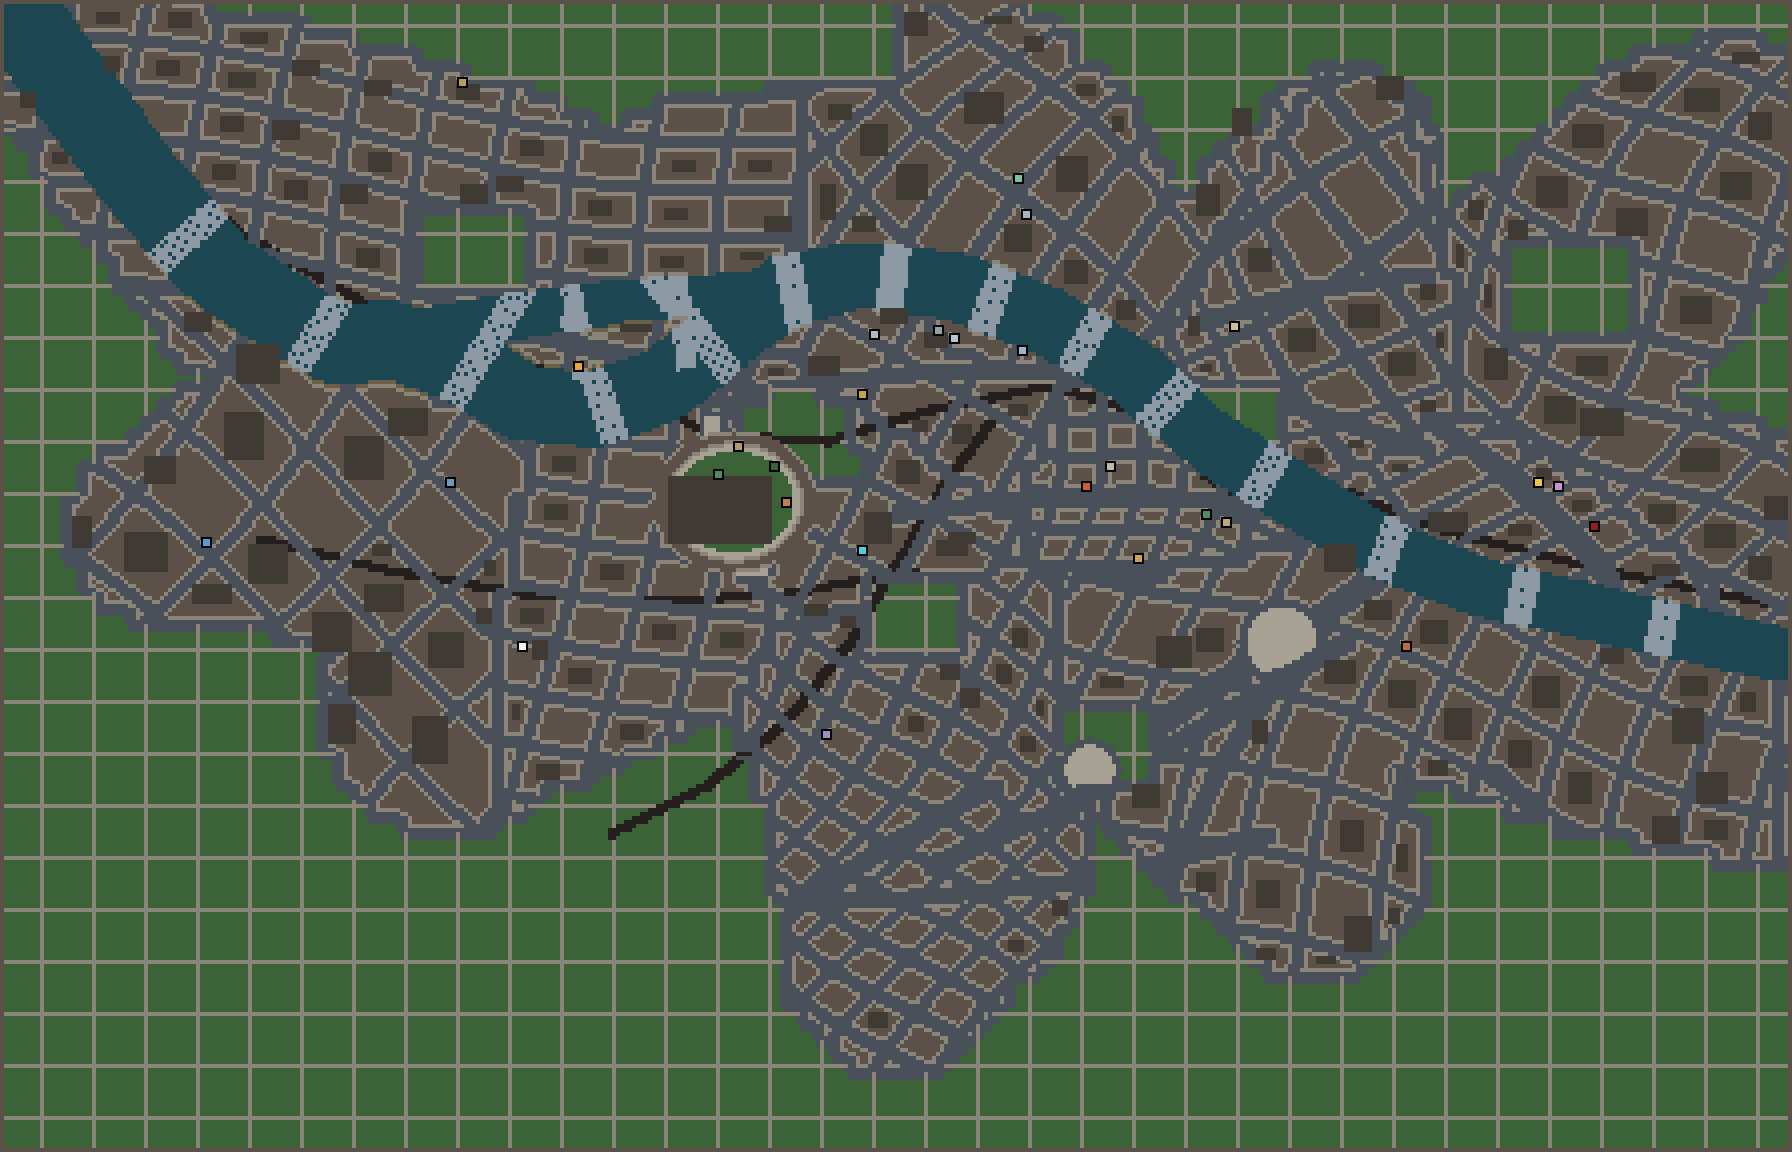
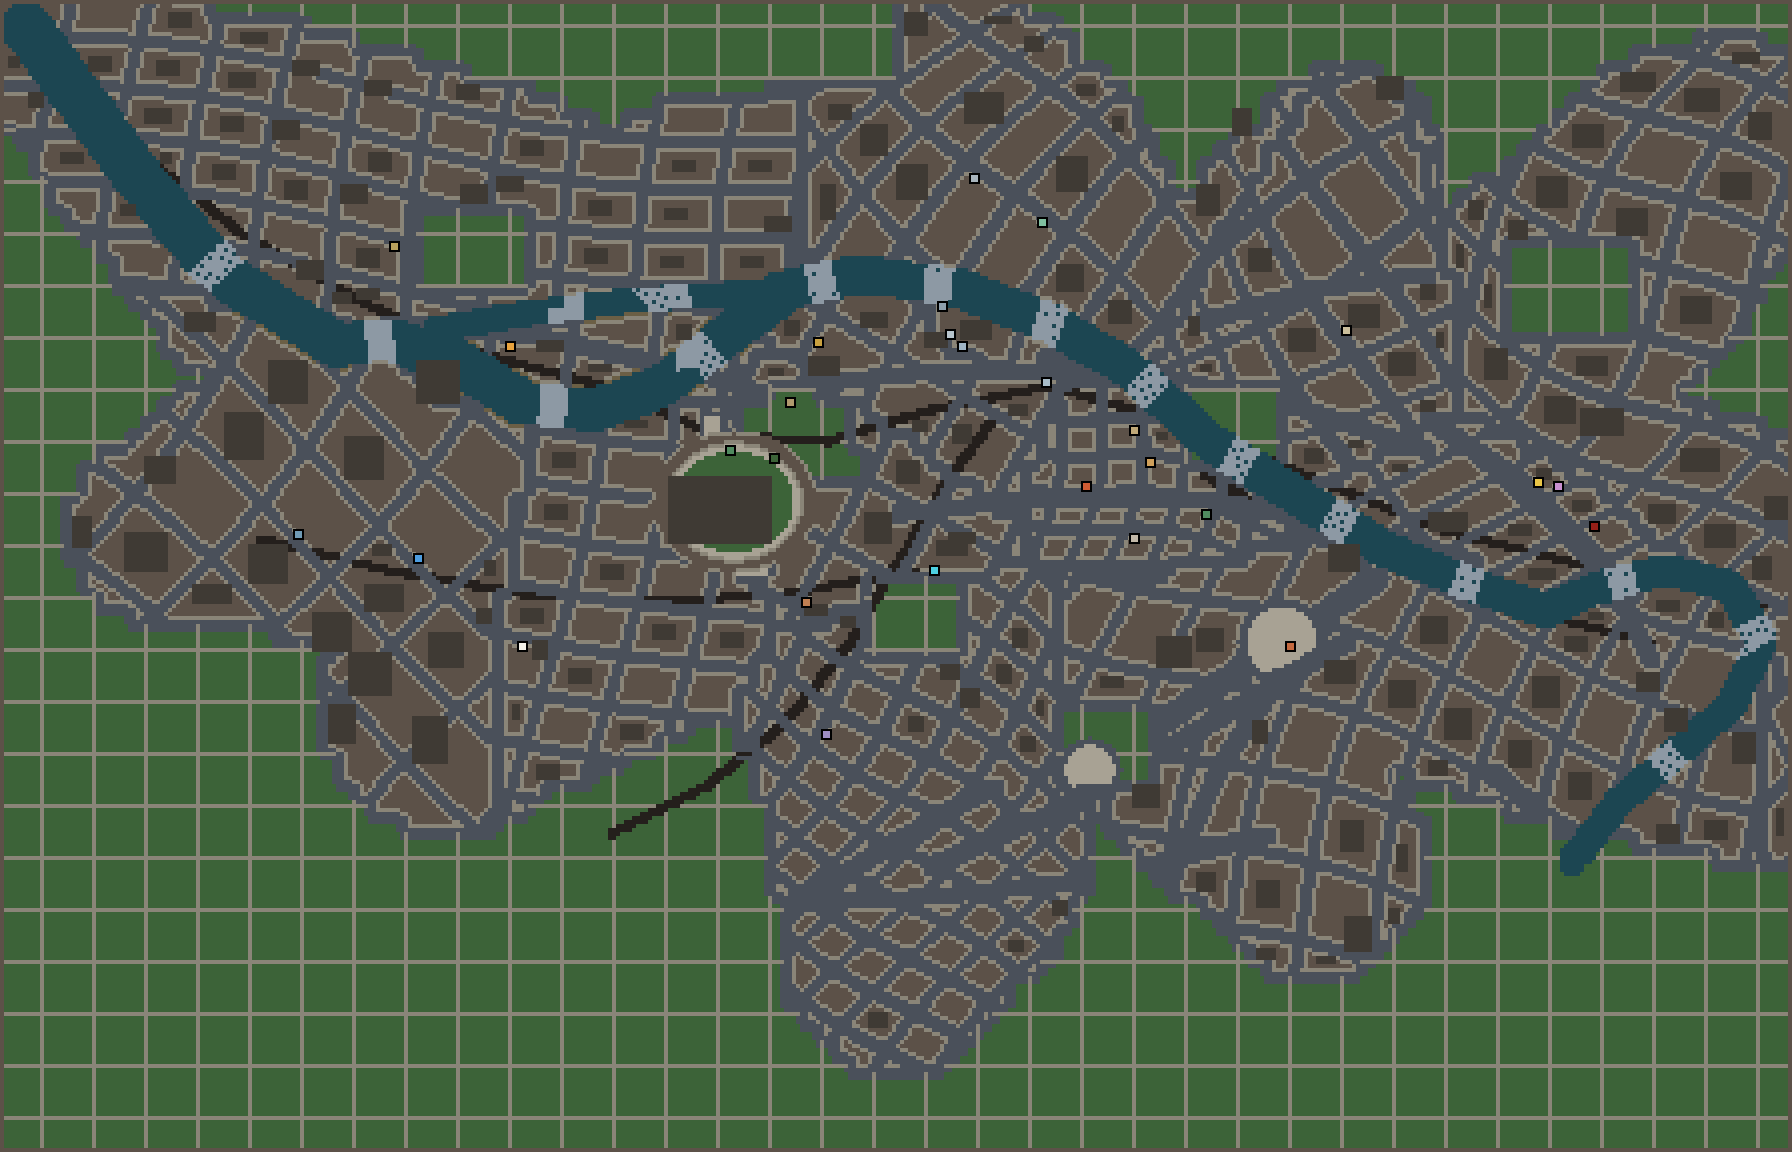
fix(bilbo-city): la ría era una autopista de agua
Con el mapa de juego que mandó el usuario al lado se ve de golpe: la ría
medía 21 casillas de ancho en la salida — un 5 % del mapa — y leía como un
brazo de mar, no como la ría de Bilbao. Baja a 7-12, y el Canal de Deusto a
6-7.

Y le faltaba el meandro del este: el Nervión rodea Bolueta y Etxebarri antes
de entrar en Bilbao, y ese lazo es de lo más reconocible del plano.

Verificado: 28/28 sitios en su barrio, red viaria al 97,5 %, conducción
recuperada a 11,5 casillas de mediana, batería entera en verde y C# sin
avisos.

Claude-Session: https://claude.ai/code/session_01TRzVFH25BrVEwpaMSPAuky

Changed region(s): [[0.0, 0.0, 1.0, 0.75], [0.4062, 0.375, 0.4375, 0.4062]]

diff --git a/bilbo-city/referencia/bilbo-city.html b/bilbo-city/referencia/bilbo-city.html
@@ -725,24 +725,24 @@ const ATLAS=[
  'FFFFOOOOOOOOOOOOOOOOOOOOOOOOOOOOBBBBBBBBBBBBEEEEEIIIIIIIIIIIIIIICCCCCCCCCCCCCCCCCMMMMSSSSSSSSSSSSSSSSSSTTTTTTTTT',
  'FFFFOOOOOOOOOOOOOOOOOOOOOOOOOOOOBBBBBBBBBBBBBEEEIIIIIIIIIIIIIIIICCCCCCCCCCCCCCMMMMMMMMMSSSSSSSSSSSSSSSSSSTTTTTTT',
  'FFFFFOOOOOOOOOOOOOOOOOOOOOOOOOOOBBBBBBBBBBBBBBEEIIIIIIIIIIIIIIRRRCCCCCCCCMMMMMMMMMMMMMMMMMSSSSSSSSSSSSSSSSTTTTTT',
- 'FFFFFOOOOOOOOOOOOOOOOOOOOOOOOOOOBBBBBBBBBBBBBBBIIIIIIIPPPPPPRRRRRRCMMMMMMMMMMMMMMMMMMMMMMMMMSSSSSSSSSSSSSSSTTTTT',
- 'FFFFFFOOOOOOOOOOOOOOOOOOOOOOOOOBBBBBBBBBBBBBBBBBIIIIIIPPPPPPRRRRRRMMMMMMMMMMMMMMMMMMMMMMMMMMMMMMMSSSSSSSSSSTTTTT',
- 'FFFFFFFFOOOOOOOOOOOOOOOOOOOOOOOBBBBBBBBBBBBBBBBBIIIIRRPPPPPPRRRRRRMMMMMMMMMMMMMMMMMMMMMMMMMMMMMMMMMMMSSSSSSSTTTT',
- 'FFFFFFFFFFFFFFFFFOOOOOOOOOOOOOOBBBBBBBBBBBBBBBBBRRRRRRPPPPPPRRRRRRMMMMMMMMMMMMMMMMMMMMMMMMMMMMMMMMMMMMMMMMSSSTTT',
+ 'FFFFFOOOOOOOOOOOOOOOOOOOOOOOOOOOBBBBBBBBBBBBBBBIIIIIIIPPPPPPRRRRRRCMMMMMMMMMMMMMMMMMMMMMMMMMSSSSSSSSMMMMMMMMTTTT',
+ 'FFFFFFOOOOOOOOOOOOOOOOOOOOOOOOOBBBBBBBBBBBBBBBBBIIIIIIPPPPPPRRRRRRMMMMMMMMMMMMMMMMMMMMMMMMMMMMMSSSMMMMMMMMMMMTTT',
+ 'FFFFFFFFOOOOOOOOOOOOOOOOOOOOOOOBBBBBBBBBBBBBBBBBIIIIRRPPPPPPRRRRRRMMMMMMMMMMMMMMMMMMMMMMMMMMMMMMMMMMMMMMMMMMMTTT',
+ 'FFFFFFFFFFFFFFFFFOOOOOOOOOOOOOOBBBBBBBBBBBBBBBBBRRRRRRPPPPPPRRRRRRMMMMMMMMMMMMMMMMMMMMMMMMMMMMMMMMMMMMMMMMMMMMTT',
  'FFFFFFFFFFFFFFFFFFFFFOOOOOOOOOOBBBBBBBBBBBBBBBBBRRRRRRPPPPPPRRRRRRMMMMMMMMMMMMMMMMMMMMMMMMMMMMMMMMMMMMMMMMMMMMTT',
- 'FFFFFFFFFFFFFFFFFFFFOOOOOOOOOOOBBBBBBBBBBBBBBBBRRRRRRRRRRRRRRRRRRRMMMMMMMMMMMMMMMMMMMMMMMMMMMMMMMMMMMMMMMMMMMMMT',
- 'FFFFFFFFFFFFFFFFFFFFOOOOOOOOOOOBBBBBBBBBBBBBBBBRRRRRRRRRRRRRRRRRRRMMMMMMMMMMMMMMMMMMMMMMMMMMMMMMMMMMMMMMMMMMMMMT',
- 'FFFFFFFFFFFFFFFFFFFFOOOOOOOOOOOBBBBBBBBBBBBBBBRRRRRRRRRRRRRRRRRRRRRMMMMMMMMMMMMMMMMMMMMMMMMMMMMMMMMMMMMMMMMMMMMS',
- 'FFFFFFFFFFFFFFFFFFFFOOOOOOOOOOOBBBBBBBBBBBBBBBRRRRRRRRRRRRRRRRRRRRPPPPPPMMMMMMMMMMMMMMMMMMMMMMMMMMMMMMMMMMMMMMMS',
- 'FFFFFFFFFFFFFFFFFFFFOOOOOOOOOOOBBBBBBBBBBBBFFFRRRRRRRRRRRRRRRRRRRRPPPPPPMMMMMMMMMMMMMMMMMMMMMMMMMMMMMMMMMMMMMMMS',
- 'FFFFFFFFFFFFFFFFFFFFOOOOOOOOOOOBBBBBBBBBBFFFFFRRRRRRRRRRRRRRRRRRRRPPPPPPMMMMMMMMMMMMMMMMMMMMMMMMMMMMMMMMMMMMMMMS',
- 'FFFFFFFFFFFFFFFFFFFFFOOOOOOOOOOBBBBBBBBFFFFFFFFRRRRRRRRRRRRRRRRRRRPPPPPPMMMMMMMMMMMMMMMMMMMMMMMMMMMMMMMMMMMMMMMS',
- 'FFFFFFFFFFFFFFFFFFFFFOOOOOOOOOOBBBBBBFFFFFFFFFFRRRRRRRRRRRRRRRRRRRPPPPPPMMMMMMMMMMMMMMMFMMMMMMMMMMMMMMMMMMMMMMMS',
- 'FFFFFFFFFFFFFFFFFFFFFFOOOOOOOOOBBBFFFFFFFFFFFFFRRRRRRRRRRRRRRRRRRRRMMMMMMMMMMMMMMMMMMMMMFFFMMMMMMMMMMMMMMMMMMMMS',
- 'FFFFFFFFFFFFFFFFFFFFFFFOOOOOOOOBBFFFFFFFFFFFFFFFRRRRRRRRRRRRRRRRRRRRMMMMMMMMMMMMMMMMMMMMFFFFFFMMMMMMMMMMMMMMMMMS',
- 'FFFFFFFFFFFFFFFFFFFFFFFFFOOOOOOFFFFFFFFFFFFFFFFFRRRRRRRRRRRRRRRRRRRRFMMMMMMMMMMMMMMMMMMMMFFFFFFFFMMMMMMMMMMMMMMS',
- 'FFFFFFFFFFFFFFFFFFFFFFFFFFFFFFFFFFFFFFFFFFFFFFFFRRRRRRRRRRRRRRRRRRRRFFMMMMMMMMMMMMMMMMMMMFFFFFFFFFFFFFMMMMMMMMMS',
- 'FFFFFFFFFFFFFFFFFFFFFFFFFFFFFFFFFFFFFFFFFFFFFFFFRRRRRRRRRRRRRRRRRRRRFFFMMMMMMMMMMMMMMMMMMFFFFFFFFFFFFFFFFFFMMMMS',
+ 'FFFFFFFFFFFFFFFFFFFFOOOOOOOOOOOBBBBBBBBBBBBBBBBRRRRRRRRRRRRRRRRRRRMMMMMMMMMMMMMMMMMMMMMMMMMMMMMMMMMMMMMMMMMMMMST',
+ 'FFFFFFFFFFFFFFFFFFFFOOOOOOOOOOOBBBBBBBBBBBBBBBBRRRRRRRRRRRRRRRRRRRMMMMMMMMMMMMMMMMMMMMMMMMMMMMMMMMMMMMMMMMMMMMST',
+ 'FFFFFFFFFFFFFFFFFFFFOOOOOOOOOOOBBBBBBBBBBBBBBBRRRRRRRRRRRRRRRRRRRRRMMMMMMMMMMMMMMMMMMMMMMMMMMMMMMMMMMMMMMMMMMMSS',
+ 'FFFFFFFFFFFFFFFFFFFFOOOOOOOOOOOBBBBBBBBBBBBBBBRRRRRRRRRRRRRRRRRRRRPPPPPPMMMMMMMMMMMMMMMMMMMMMMMMMMMMMMMMMMMMMMSS',
+ 'FFFFFFFFFFFFFFFFFFFFOOOOOOOOOOOBBBBBBBBBBBBFFFRRRRRRRRRRRRRRRRRRRRPPPPPPMMMMMMMMMMMMMMMMMMMMMMMMMMMMMMMMMMMMMMSS',
+ 'FFFFFFFFFFFFFFFFFFFFOOOOOOOOOOOBBBBBBBBBBFFFFFRRRRRRRRRRRRRRRRRRRRPPPPPPMMMMMMMMMMMMMMMMMMMMMMMMMMMMMMMMMMMMMMSS',
+ 'FFFFFFFFFFFFFFFFFFFFFOOOOOOOOOOBBBBBBBBFFFFFFFFRRRRRRRRRRRRRRRRRRRPPPPPPMMMMMMMMMMMMMMMMMMMMMMMMMMMMMMMMMMMMMMSS',
+ 'FFFFFFFFFFFFFFFFFFFFFOOOOOOOOOOBBBBBBFFFFFFFFFFRRRRRRRRRRRRRRRRRRRPPPPPPMMMMMMMMMMMMMMMFMMMMMMMMMMMMMMMMMMMMMMSS',
+ 'FFFFFFFFFFFFFFFFFFFFFFOOOOOOOOOBBBFFFFFFFFFFFFFRRRRRRRRRRRRRRRRRRRRMMMMMMMMMMMMMMMMMMMMMFFFMMMMMMMMMMMMMMMMMMMSS',
+ 'FFFFFFFFFFFFFFFFFFFFFFFOOOOOOOOBBFFFFFFFFFFFFFFFRRRRRRRRRRRRRRRRRRRRMMMMMMMMMMMMMMMMMMMMFFFFFFMMMMMMMMMMMMMMMMSS',
+ 'FFFFFFFFFFFFFFFFFFFFFFFFFOOOOOOFFFFFFFFFFFFFFFFFRRRRRRRRRRRRRRRRRRRRFMMMMMMMMMMMMMMMMMMMMFFFFFFFFMMMMMMMMMMMMMSS',
+ 'FFFFFFFFFFFFFFFFFFFFFFFFFFFFFFFFFFFFFFFFFFFFFFFFRRRRRRRRRRRRRRRRRRRRFFMMMMMMMMMMMMMMMMMMMFFFFFFFFFFFFFMMMMMMMMSS',
+ 'FFFFFFFFFFFFFFFFFFFFFFFFFFFFFFFFFFFFFFFFFFFFFFFFRRRRRRRRRRRRRRRRRRRRFFFMMMMMMMMMMMMMMMMMMFFFFFFFFFFFFFFFFFFMMMSS',
  'FFFFFFFFFFFFFFFFFFFFFFFFFFFFFFFFFFFFFFFFFFFFFFFFRRRRRRRRRRRRRRRRRRRRFFFFMMMMMMMMMMMMMMMMMFFFFFFFFFFFFFFFFFFFFFFF',
  'FFFFFFFFFFFFFFFFFFFFFFFFFFFFFFFFFFFFFFFFFFFFFFFFRRRRRRRRRRRRRRRRRRRRFFFFFMMMMMMMMMMMMMMMMFFFFFFFFFFFFFFFFFFFFFFF',
  'FFFFFFFFFFFFFFFFFFFFFFFFFFFFFFFFFFFFFFFFFFFFFFFFFRRRRRRRRRRRRRRRRRRFFFFFFFFMMMMMMMMMMMMMMFFFFFFFFFFFFFFFFFFFFFFF',
@@ -809,7 +809,7 @@ function linea(pts,ancho,t,soloSi){
    redonda a propósito: con un vértice en punta el plano parecía una tienda de campaña,
    no un río. Los dos brazos son distintos porque en Bilbao tampoco son iguales — el
    Nervión baja recto y el tramo de salida se abre. */
-const RIA=[[445,163],[404,154],[369,146],[346,137],[326,125],[302,110],[282,92],[262,80],[238,71],[215,68],[196,72],[180,84],[165,96],[148,102],[130,100],[114,90],[96,84],[84,86],[55,68],[35,45],[17,21],[6,6]];
+const RIA=[[392,215],[404,200],[418,188],[432,176],[440,160],[432,146],[416,142],[400,146],[386,152],[369,146],[346,137],[326,125],[302,110],[282,92],[262,80],[238,71],[215,68],[196,72],[180,84],[165,96],[148,102],[130,100],[114,90],[96,84],[84,86],[55,68],[35,45],[17,21],[6,6]];
 /* Canal de Deusto: corre paralelo al tramo de salida, por dentro, y deja Zorrotzaurre
    convertida en isla. Arranca y muere en la ría, que es lo que la hace isla y no península. */
 const CANAL=[[196,72],[174,73],[152,75],[130,78],[108,82]];
@@ -923,8 +923,8 @@ function generarCiudad(){
    pon(ex+dx,ey+dy, e>.62?EDIF : e>.5?PLAZA : PARQUE);}
   rect(ex-10,ey-2,20,3,PLAZA);})();
  /* 6 · la ría y el canal */
- lineaRio(RIA,13,21,AGUA);
- lineaRio(CANAL,10,12,AGUA);
+ lineaRio(RIA,7,12,AGUA);
+ lineaRio(CANAL,6,7,AGUA);
  /* 7 · puentes donde tocan las grandes vías */
  [.06,.13,.2,.27,.33,.38,.43,.48,.53,.58,.64,.71,.79,.87].forEach(t=>{
   const p=puntoRuta(RIA,t), per=p.ang+Math.PI/2;

diff --git a/bilbo-city/unity/BilboCity/Assets/Scripts/Ciudad/Ciudad.cs b/bilbo-city/unity/BilboCity/Assets/Scripts/Ciudad/Ciudad.cs
@@ -65,24 +65,24 @@ public static class Ciudad {
         "FFFFOOOOOOOOOOOOOOOOOOOOOOOOOOOOBBBBBBBBBBBBEEEEEIIIIIIIIIIIIIIICCCCCCCCCCCCCCCCCMMMMSSSSSSSSSSSSSSSSSSTTTTTTTTT",
         "FFFFOOOOOOOOOOOOOOOOOOOOOOOOOOOOBBBBBBBBBBBBBEEEIIIIIIIIIIIIIIIICCCCCCCCCCCCCCMMMMMMMMMSSSSSSSSSSSSSSSSSSTTTTTTT",
         "FFFFFOOOOOOOOOOOOOOOOOOOOOOOOOOOBBBBBBBBBBBBBBEEIIIIIIIIIIIIIIRRRCCCCCCCCMMMMMMMMMMMMMMMMMSSSSSSSSSSSSSSSSTTTTTT",
-        "FFFFFOOOOOOOOOOOOOOOOOOOOOOOOOOOBBBBBBBBBBBBBBBIIIIIIIPPPPPPRRRRRRCMMMMMMMMMMMMMMMMMMMMMMMMMSSSSSSSSSSSSSSSTTTTT",
-        "FFFFFFOOOOOOOOOOOOOOOOOOOOOOOOOBBBBBBBBBBBBBBBBBIIIIIIPPPPPPRRRRRRMMMMMMMMMMMMMMMMMMMMMMMMMMMMMMMSSSSSSSSSSTTTTT",
-        "FFFFFFFFOOOOOOOOOOOOOOOOOOOOOOOBBBBBBBBBBBBBBBBBIIIIRRPPPPPPRRRRRRMMMMMMMMMMMMMMMMMMMMMMMMMMMMMMMMMMMSSSSSSSTTTT",
-        "FFFFFFFFFFFFFFFFFOOOOOOOOOOOOOOBBBBBBBBBBBBBBBBBRRRRRRPPPPPPRRRRRRMMMMMMMMMMMMMMMMMMMMMMMMMMMMMMMMMMMMMMMMSSSTTT",
+        "FFFFFOOOOOOOOOOOOOOOOOOOOOOOOOOOBBBBBBBBBBBBBBBIIIIIIIPPPPPPRRRRRRCMMMMMMMMMMMMMMMMMMMMMMMMMSSSSSSSSMMMMMMMMTTTT",
+        "FFFFFFOOOOOOOOOOOOOOOOOOOOOOOOOBBBBBBBBBBBBBBBBBIIIIIIPPPPPPRRRRRRMMMMMMMMMMMMMMMMMMMMMMMMMMMMMSSSMMMMMMMMMMMTTT",
+        "FFFFFFFFOOOOOOOOOOOOOOOOOOOOOOOBBBBBBBBBBBBBBBBBIIIIRRPPPPPPRRRRRRMMMMMMMMMMMMMMMMMMMMMMMMMMMMMMMMMMMMMMMMMMMTTT",
+        "FFFFFFFFFFFFFFFFFOOOOOOOOOOOOOOBBBBBBBBBBBBBBBBBRRRRRRPPPPPPRRRRRRMMMMMMMMMMMMMMMMMMMMMMMMMMMMMMMMMMMMMMMMMMMMTT",
         "FFFFFFFFFFFFFFFFFFFFFOOOOOOOOOOBBBBBBBBBBBBBBBBBRRRRRRPPPPPPRRRRRRMMMMMMMMMMMMMMMMMMMMMMMMMMMMMMMMMMMMMMMMMMMMTT",
-        "FFFFFFFFFFFFFFFFFFFFOOOOOOOOOOOBBBBBBBBBBBBBBBBRRRRRRRRRRRRRRRRRRRMMMMMMMMMMMMMMMMMMMMMMMMMMMMMMMMMMMMMMMMMMMMMT",
-        "FFFFFFFFFFFFFFFFFFFFOOOOOOOOOOOBBBBBBBBBBBBBBBBRRRRRRRRRRRRRRRRRRRMMMMMMMMMMMMMMMMMMMMMMMMMMMMMMMMMMMMMMMMMMMMMT",
-        "FFFFFFFFFFFFFFFFFFFFOOOOOOOOOOOBBBBBBBBBBBBBBBRRRRRRRRRRRRRRRRRRRRRMMMMMMMMMMMMMMMMMMMMMMMMMMMMMMMMMMMMMMMMMMMMS",
-        "FFFFFFFFFFFFFFFFFFFFOOOOOOOOOOOBBBBBBBBBBBBBBBRRRRRRRRRRRRRRRRRRRRPPPPPPMMMMMMMMMMMMMMMMMMMMMMMMMMMMMMMMMMMMMMMS",
-        "FFFFFFFFFFFFFFFFFFFFOOOOOOOOOOOBBBBBBBBBBBBFFFRRRRRRRRRRRRRRRRRRRRPPPPPPMMMMMMMMMMMMMMMMMMMMMMMMMMMMMMMMMMMMMMMS",
-        "FFFFFFFFFFFFFFFFFFFFOOOOOOOOOOOBBBBBBBBBBFFFFFRRRRRRRRRRRRRRRRRRRRPPPPPPMMMMMMMMMMMMMMMMMMMMMMMMMMMMMMMMMMMMMMMS",
-        "FFFFFFFFFFFFFFFFFFFFFOOOOOOOOOOBBBBBBBBFFFFFFFFRRRRRRRRRRRRRRRRRRRPPPPPPMMMMMMMMMMMMMMMMMMMMMMMMMMMMMMMMMMMMMMMS",
-        "FFFFFFFFFFFFFFFFFFFFFOOOOOOOOOOBBBBBBFFFFFFFFFFRRRRRRRRRRRRRRRRRRRPPPPPPMMMMMMMMMMMMMMMFMMMMMMMMMMMMMMMMMMMMMMMS",
-        "FFFFFFFFFFFFFFFFFFFFFFOOOOOOOOOBBBFFFFFFFFFFFFFRRRRRRRRRRRRRRRRRRRRMMMMMMMMMMMMMMMMMMMMMFFFMMMMMMMMMMMMMMMMMMMMS",
-        "FFFFFFFFFFFFFFFFFFFFFFFOOOOOOOOBBFFFFFFFFFFFFFFFRRRRRRRRRRRRRRRRRRRRMMMMMMMMMMMMMMMMMMMMFFFFFFMMMMMMMMMMMMMMMMMS",
-        "FFFFFFFFFFFFFFFFFFFFFFFFFOOOOOOFFFFFFFFFFFFFFFFFRRRRRRRRRRRRRRRRRRRRFMMMMMMMMMMMMMMMMMMMMFFFFFFFFMMMMMMMMMMMMMMS",
-        "FFFFFFFFFFFFFFFFFFFFFFFFFFFFFFFFFFFFFFFFFFFFFFFFRRRRRRRRRRRRRRRRRRRRFFMMMMMMMMMMMMMMMMMMMFFFFFFFFFFFFFMMMMMMMMMS",
-        "FFFFFFFFFFFFFFFFFFFFFFFFFFFFFFFFFFFFFFFFFFFFFFFFRRRRRRRRRRRRRRRRRRRRFFFMMMMMMMMMMMMMMMMMMFFFFFFFFFFFFFFFFFFMMMMS",
+        "FFFFFFFFFFFFFFFFFFFFOOOOOOOOOOOBBBBBBBBBBBBBBBBRRRRRRRRRRRRRRRRRRRMMMMMMMMMMMMMMMMMMMMMMMMMMMMMMMMMMMMMMMMMMMMST",
+        "FFFFFFFFFFFFFFFFFFFFOOOOOOOOOOOBBBBBBBBBBBBBBBBRRRRRRRRRRRRRRRRRRRMMMMMMMMMMMMMMMMMMMMMMMMMMMMMMMMMMMMMMMMMMMMST",
+        "FFFFFFFFFFFFFFFFFFFFOOOOOOOOOOOBBBBBBBBBBBBBBBRRRRRRRRRRRRRRRRRRRRRMMMMMMMMMMMMMMMMMMMMMMMMMMMMMMMMMMMMMMMMMMMSS",
+        "FFFFFFFFFFFFFFFFFFFFOOOOOOOOOOOBBBBBBBBBBBBBBBRRRRRRRRRRRRRRRRRRRRPPPPPPMMMMMMMMMMMMMMMMMMMMMMMMMMMMMMMMMMMMMMSS",
+        "FFFFFFFFFFFFFFFFFFFFOOOOOOOOOOOBBBBBBBBBBBBFFFRRRRRRRRRRRRRRRRRRRRPPPPPPMMMMMMMMMMMMMMMMMMMMMMMMMMMMMMMMMMMMMMSS",
+        "FFFFFFFFFFFFFFFFFFFFOOOOOOOOOOOBBBBBBBBBBFFFFFRRRRRRRRRRRRRRRRRRRRPPPPPPMMMMMMMMMMMMMMMMMMMMMMMMMMMMMMMMMMMMMMSS",
+        "FFFFFFFFFFFFFFFFFFFFFOOOOOOOOOOBBBBBBBBFFFFFFFFRRRRRRRRRRRRRRRRRRRPPPPPPMMMMMMMMMMMMMMMMMMMMMMMMMMMMMMMMMMMMMMSS",
+        "FFFFFFFFFFFFFFFFFFFFFOOOOOOOOOOBBBBBBFFFFFFFFFFRRRRRRRRRRRRRRRRRRRPPPPPPMMMMMMMMMMMMMMMFMMMMMMMMMMMMMMMMMMMMMMSS",
+        "FFFFFFFFFFFFFFFFFFFFFFOOOOOOOOOBBBFFFFFFFFFFFFFRRRRRRRRRRRRRRRRRRRRMMMMMMMMMMMMMMMMMMMMMFFFMMMMMMMMMMMMMMMMMMMSS",
+        "FFFFFFFFFFFFFFFFFFFFFFFOOOOOOOOBBFFFFFFFFFFFFFFFRRRRRRRRRRRRRRRRRRRRMMMMMMMMMMMMMMMMMMMMFFFFFFMMMMMMMMMMMMMMMMSS",
+        "FFFFFFFFFFFFFFFFFFFFFFFFFOOOOOOFFFFFFFFFFFFFFFFFRRRRRRRRRRRRRRRRRRRRFMMMMMMMMMMMMMMMMMMMMFFFFFFFFMMMMMMMMMMMMMSS",
+        "FFFFFFFFFFFFFFFFFFFFFFFFFFFFFFFFFFFFFFFFFFFFFFFFRRRRRRRRRRRRRRRRRRRRFFMMMMMMMMMMMMMMMMMMMFFFFFFFFFFFFFMMMMMMMMSS",
+        "FFFFFFFFFFFFFFFFFFFFFFFFFFFFFFFFFFFFFFFFFFFFFFFFRRRRRRRRRRRRRRRRRRRRFFFMMMMMMMMMMMMMMMMMMFFFFFFFFFFFFFFFFFFMMMSS",
         "FFFFFFFFFFFFFFFFFFFFFFFFFFFFFFFFFFFFFFFFFFFFFFFFRRRRRRRRRRRRRRRRRRRRFFFFMMMMMMMMMMMMMMMMMFFFFFFFFFFFFFFFFFFFFFFF",
         "FFFFFFFFFFFFFFFFFFFFFFFFFFFFFFFFFFFFFFFFFFFFFFFFRRRRRRRRRRRRRRRRRRRRFFFFFMMMMMMMMMMMMMMMMFFFFFFFFFFFFFFFFFFFFFFF",
         "FFFFFFFFFFFFFFFFFFFFFFFFFFFFFFFFFFFFFFFFFFFFFFFFFRRRRRRRRRRRRRRRRRRFFFFFFFFMMMMMMMMMMMMMMFFFFFFFFFFFFFFFFFFFFFFF",
@@ -148,12 +148,14 @@ public static class Ciudad {
     }
 
     static readonly Vector2[] RIA = {
-        new Vector2(445,163), new Vector2(404,154), new Vector2(369,146), new Vector2(346,137),
-        new Vector2(326,125), new Vector2(302,110), new Vector2(282,92), new Vector2(262,80),
-        new Vector2(238,71), new Vector2(215,68), new Vector2(196,72), new Vector2(180,84),
-        new Vector2(165,96), new Vector2(148,102), new Vector2(130,100), new Vector2(114,90),
-        new Vector2(96,84), new Vector2(84,86), new Vector2(55,68), new Vector2(35,45),
-        new Vector2(17,21), new Vector2(6,6)
+        new Vector2(392,215), new Vector2(404,200), new Vector2(418,188), new Vector2(432,176),
+        new Vector2(440,160), new Vector2(432,146), new Vector2(416,142), new Vector2(400,146),
+        new Vector2(386,152), new Vector2(369,146), new Vector2(346,137), new Vector2(326,125),
+        new Vector2(302,110), new Vector2(282,92), new Vector2(262,80), new Vector2(238,71),
+        new Vector2(215,68), new Vector2(196,72), new Vector2(180,84), new Vector2(165,96),
+        new Vector2(148,102), new Vector2(130,100), new Vector2(114,90), new Vector2(96,84),
+        new Vector2(84,86), new Vector2(55,68), new Vector2(35,45), new Vector2(17,21),
+        new Vector2(6,6)
     };
     static readonly Vector2[] CANAL = {
         new Vector2(196,72), new Vector2(174,73), new Vector2(152,75), new Vector2(130,78),
@@ -332,8 +334,8 @@ public static class Ciudad {
         }
 
         // 6 · la ría y el canal
-        LineaRio(RIA, 13, 21, Suelo.Agua);
-        LineaRio(CANAL, 10, 12, Suelo.Agua);
+        LineaRio(RIA, 7, 12, Suelo.Agua);
+        LineaRio(CANAL, 6, 7, Suelo.Agua);
 
         // 7 · puentes
         float[] tsRia = { .06f,.13f,.2f,.27f,.33f,.38f,.43f,.48f,.53f,.58f,.64f,.71f,.79f,.87f };

diff --git a/bilbo-city/herramientas/plano/trazar.py b/bilbo-city/herramientas/plano/trazar.py
@@ -139,8 +139,15 @@ PARQUES = [
 # La ría, en casillas del mapa (la misma polilínea que dibuja el juego). Sirve para que
 # ningún barrio salte de orilla: en Bilbao el Casco Viejo está en una margen y el
 # Ensanche en la otra, y un reparto por cercanía sin esto los mezcla.
-RIA = [(445, 163),
-       (404, 154),
+RIA = [(392, 215),
+       (404, 200),
+       (418, 188),
+       (432, 176),
+       (440, 160),
+       (432, 146),
+       (416, 142),
+       (400, 146),
+       (386, 152),
        (369, 146),
        (346, 137),
        (326, 125),
